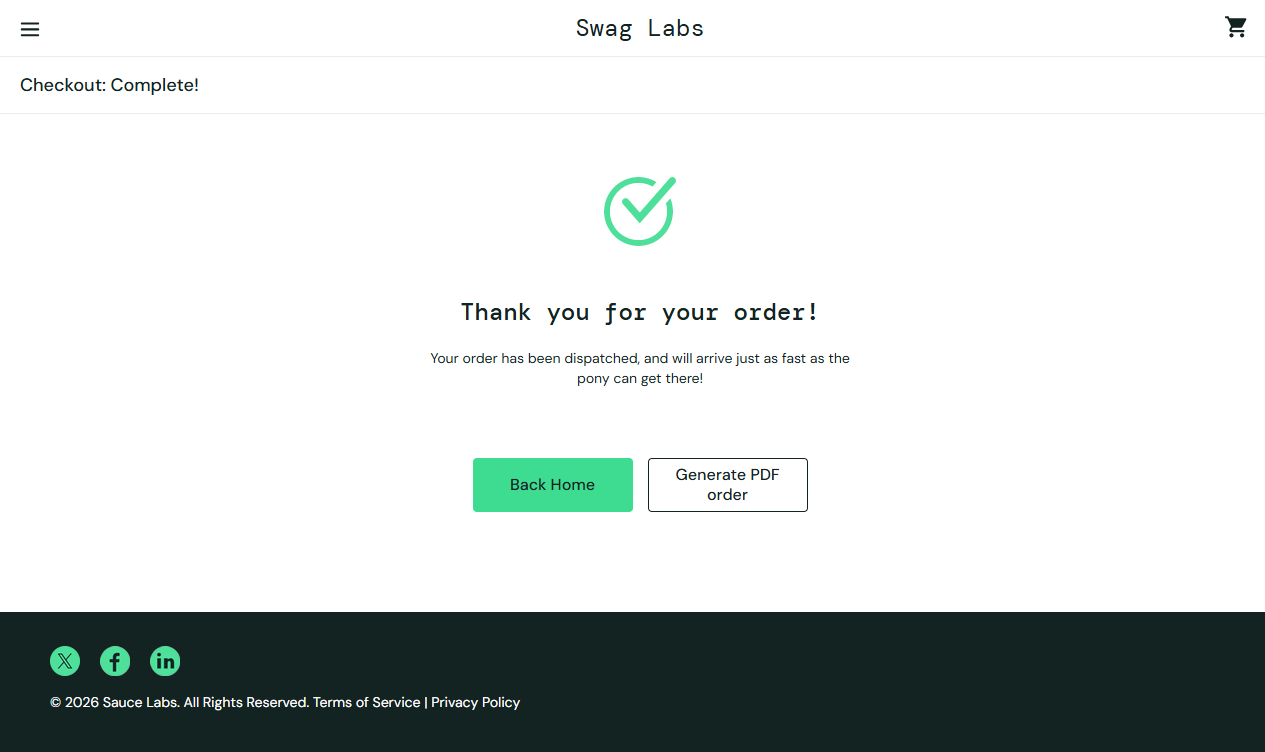
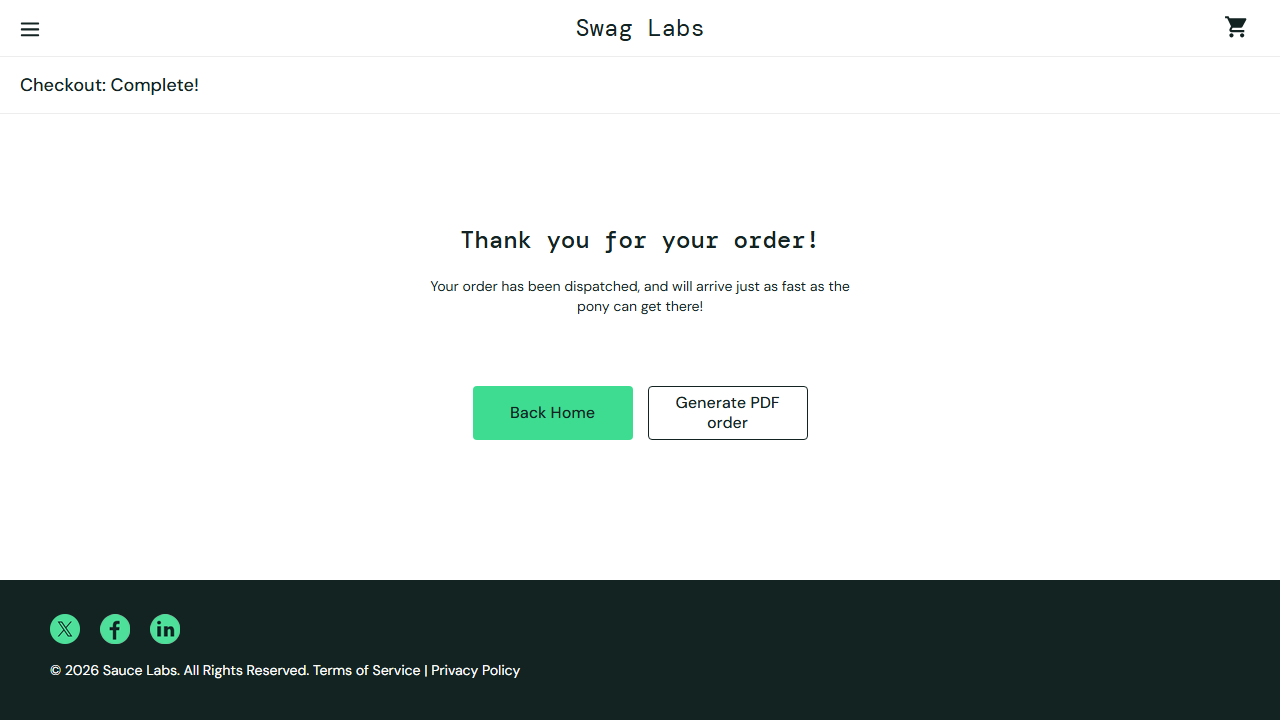
Prueba final

diff --git a/README.md b/README.md
@@ -19,14 +19,19 @@ Desde PowerShell, ubicarse en la carpeta principal del proyecto:
 
 ```powershell
 cd "$env:USERPROFILE\Desktop\qa-onboarding"
+git clone https://github.com/quisnancelao/qa-onboarding.git qa-onboarding-res
+cd qa-onboarding-res
+code .
 ```
 
 Crear el entorno virtual:
 
 ```powershell
 python -m venv .venv
-```
+Set-ExecutionPolicy -Scope Process -ExecutionPolicy Bypass 
+.\.venv\Scripts\Activate
 
+```
 Instalar las dependencias:
 
 ```powershell
